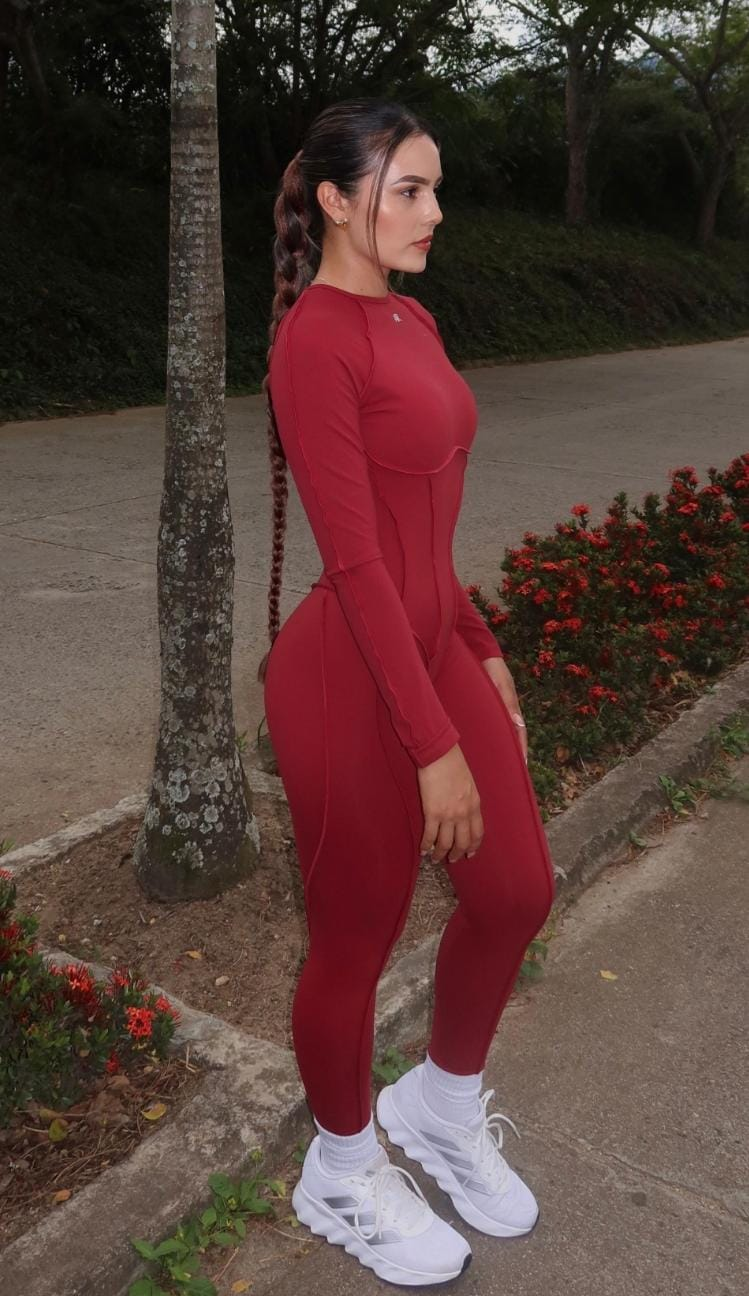
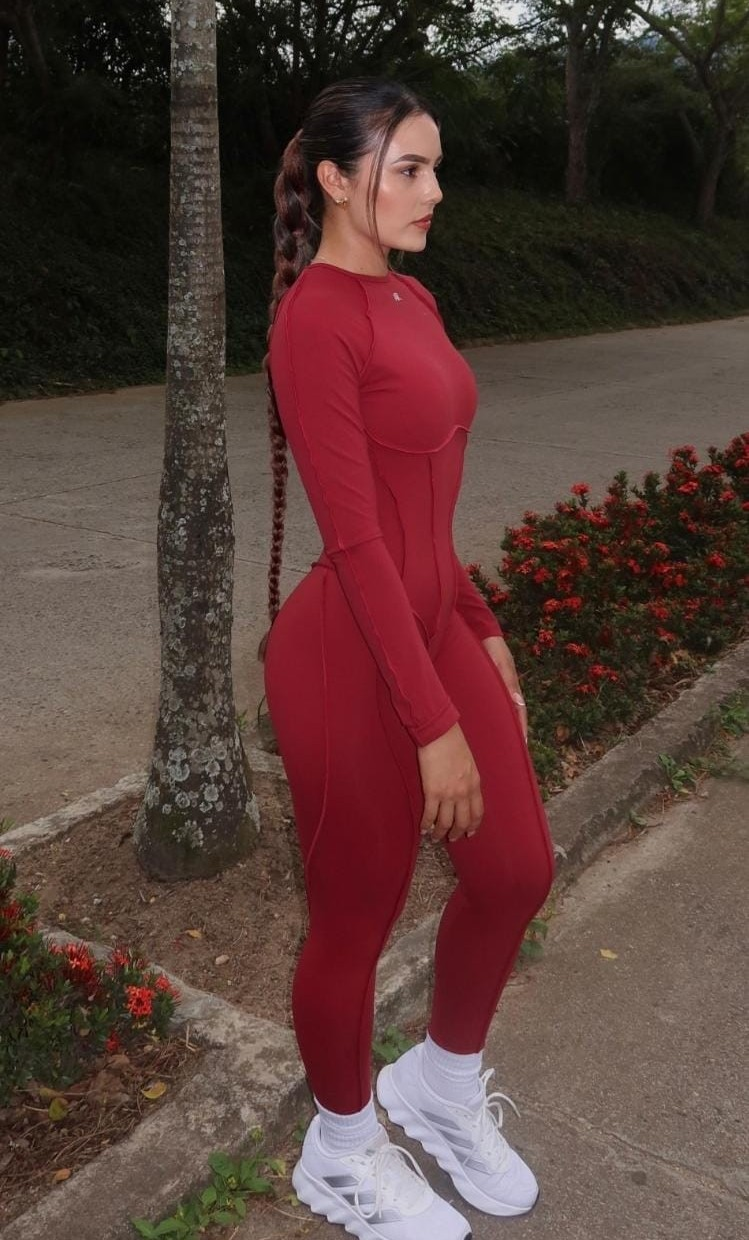
agrgue nuevo enterizo

diff --git a/src/Components/Assets/all_product.js b/src/Components/Assets/all_product.js
@@ -3,7 +3,7 @@ import enterizoalmabeige1 from "./enterizos/enterizoalmabeige1.jpeg";
 import enterizoalmabeige2 from "./enterizos/enterizoalmabeige2.jpeg";
 import enterizoalmabeige3 from "./enterizos/enterizoalmabeige3.jpeg";
 import enterizoalmabeige4 from "./enterizos/enterizoalmabeige4.jpeg";
-// 101
+// 102
 import enterizovinotinto1 from "./enterizos/enterizovinotinto1.jpeg";
 import enterizovinotinto2 from "./enterizos/enterizovinotinto2.jpeg";
 import enterizovinotinto3 from "./enterizos/enterizovinotinto3.jpeg";
@@ -28,6 +28,11 @@ import enterizoflexazul1 from "./enterizos/enterizoflexazul1.jpg";
 import enterizoflexazul2 from "./enterizos/enterizoflexazul2.jpg";
 import enterizoflexazul3 from "./enterizos/enterizoflexazul3.jpg";
 import enterizoflexazul4 from "./enterizos/enterizoflexazul4.jpg";
+// 107
+import enterizoevavinotinto1 from "./enterizos/enterizoevavinotinto1.jpeg";
+import enterizoevavinotinto2 from "./enterizos/enterizoevavinotinto2.jpeg";
+import enterizoevavinotinto3 from "./enterizos/enterizoevavinotinto3.jpeg";
+import enterizoevavinotinto4 from "./enterizos/enterizoevavinotinto4.jpeg";
 // 108
 import enterizoflexfucsianeon1 from "./enterizos/enterizoflexfucsianeon1.jpeg";
 import enterizoflexfucsianeon2 from "./enterizos/enterizoflexfucsianeon2.jpeg";
@@ -42,7 +47,7 @@ import enterizorebelblanco4 from "./enterizos/enterizorebelblanco4.jpeg";
 import enterizoorionnegro1 from "./enterizos/enterizoorionnegro1.jpeg";
 import enterizoorionnegro2 from "./enterizos/enterizoorionnegro2.jpeg";
 import enterizoorionnegro3 from "./enterizos/enterizoorionnegro3.jpeg";
- import enterizoorionnegro4 from "./enterizos/enterizoorionnegro4.jpeg";
+import enterizoorionnegro4 from "./enterizos/enterizoorionnegro4.jpeg";
 // 114
 import enterizoactiveblanco1 from "./enterizos/enterizoactiveblanco1.jpeg";
 import enterizoactiveblanco2 from "./enterizos/enterizoactiveblanco2.jpeg";
@@ -568,6 +573,25 @@ let all_product = [
     },
   },
   {
+    id: 107,
+    name: "ENTERIZO EVA - VINO TINTO",
+    category: "enterizos",
+    description: "Tela suave con acabados de la mejor calidad",
+    image: enterizoevavinotinto1,
+    image2: enterizoevavinotinto2,
+    image3: enterizoevavinotinto3,
+    image4: enterizoevavinotinto4,
+    new_price: 140000,
+    old_price: 150000,
+    sizes: {
+      XS: false,
+      S: true,
+      M: true,
+      L: false,
+      XL: false,
+    },
+  },
+  {
     id: 129,
     name: "ENTERIZO FLEX - TONO AZUL",
     category: "enterizos",
@@ -962,7 +986,6 @@ let all_product = [
       XL: false,
     },
   },
-  
 ];
 
 export default all_product;
